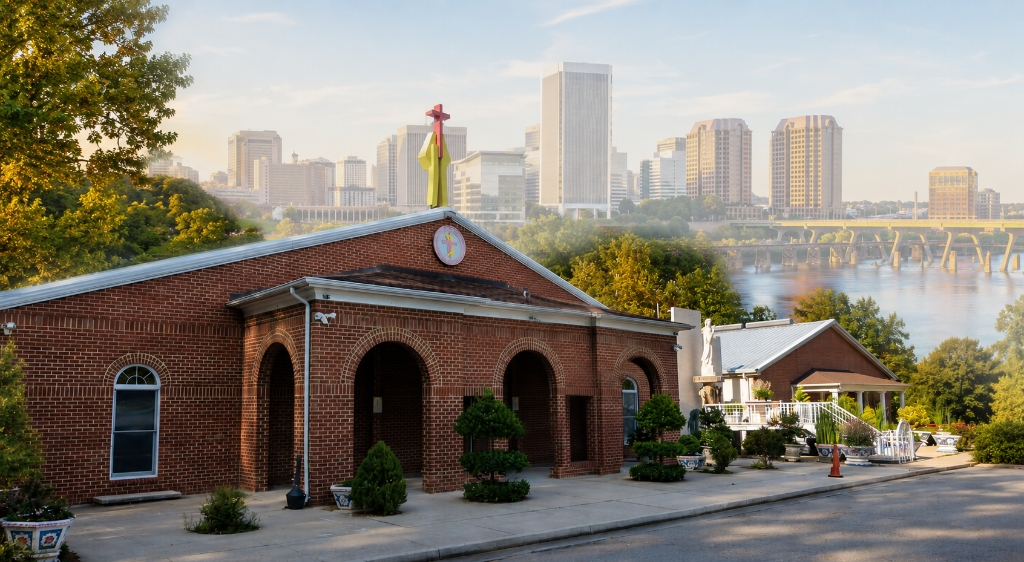
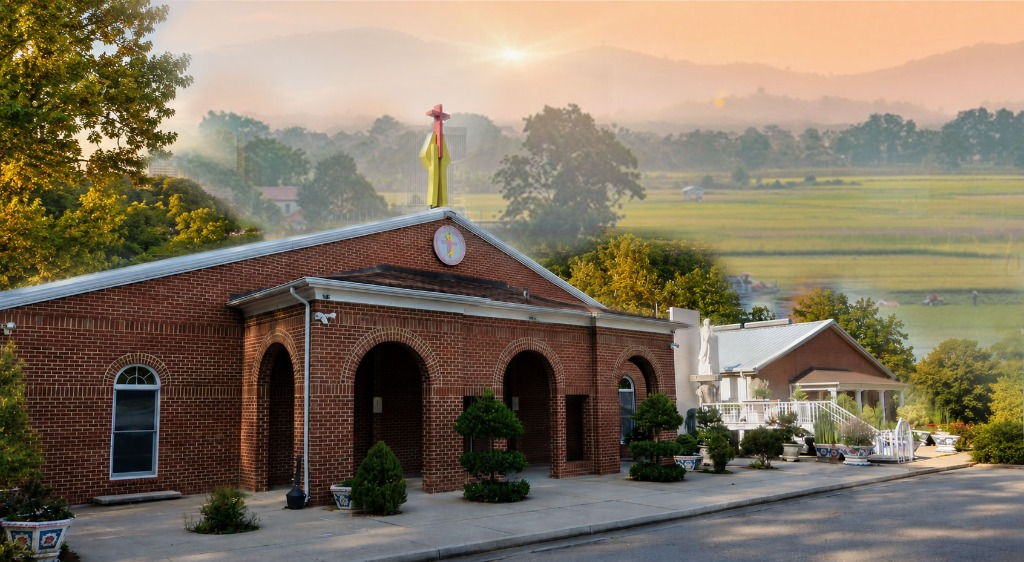
update slide2 image and adjust Hero slide 1 title

diff --git a/src/components/sections/Hero.tsx b/src/components/sections/Hero.tsx
@@ -8,7 +8,7 @@ import { cn } from "@/lib/utils";
 const SLIDES = [
   {
     image: "/images/slide1.jpg",
-    title: "Cộng Đoàn Giáo Xứ Các Thánh Tử Đạo Việt Nam Richmond, Virginia",
+    title: "Các Thánh Tử Đạo Việt Nam Richmond, Virginia",
     subtitle: "Nơi nuôi dưỡng đức tin, lan tỏa tình yêu thương và kết nối cộng đồng tại Richmond, Virginia.",
     badge: "Chào Mừng Đến Với Giáo Xứ",
     primaryAction: {